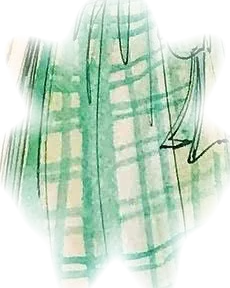
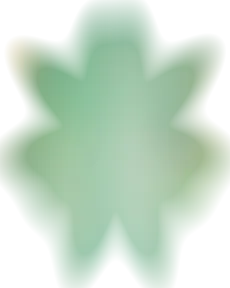
style: blur dress-crop washes and split the painting into standalone figures
The footer wash read as a weird partial plaid skirt; dress-derived washes
are now Gaussian-blurred into pure color. The three women are cut out as
individual feathered figures (gold/rose flank the home hero, plaid on the
novels page, wide screens only); the trio painting stays on the About page.

diff --git a/site/css/style.css b/site/css/style.css
@@ -67,7 +67,7 @@ figure.artwork figcaption { font-size: 0.9rem; color: var(--faded); margin-top: 
 footer {
   margin-top: 3.5rem; padding: 2.2rem 0 2.8rem;
   border-top: none;
-  background: url("../img/washes/sage.webp") no-repeat center top / 16rem auto;
+  background: url("../img/washes/sage.webp?v=2") no-repeat center top / 16rem auto;
   font-size: 0.9rem; color: var(--faded); text-align: center;
 }
 select, button.toggle {
@@ -94,6 +94,18 @@ button.toggle { cursor: pointer; }
 }
 #reader-nav a { margin-left: 0.8rem; }
 
+/* Standalone figures cut from the painting (wide screens only) */
+.hero-fig {
+  position: absolute; top: 0.5rem; height: calc(100% - 1rem); width: auto;
+  display: none;
+}
+.hero-fig.left { left: 0.5rem; }
+.hero-fig.right { right: 0.5rem; }
+@media (min-width: 70rem) {
+  .hero-fig { display: block; }
+  header.hero.has-figs { padding-left: 9rem; padding-right: 9rem; }
+}
+
 /* Script view */
 .cast ol { columns: 2; max-width: 30rem; }
 .stage { font-style: italic; color: var(--faded); margin: 0 0 1rem; }
@@ -105,7 +117,7 @@ button.toggle { cursor: pointer; }
 .line p { margin: 0.1rem 0 0 1.2rem; }
 
 @media print {
-  .crumbs, #reader-nav, footer, .wash-band { display: none !important; }
+  .crumbs, #reader-nav, footer, .wash-band, .hero-fig { display: none !important; }
   body { background: #fff; color: #000; }
   .speaker-tag { background: none !important; color: #000; border: 1px solid #000; }
   .line { break-inside: avoid; }

diff --git a/site/index.html b/site/index.html
@@ -9,7 +9,9 @@
 </head>
 <body>
 <div class="wrap">
-  <header class="hero wash-band">
+  <header class="hero wash-band has-figs">
+    <img class="hero-fig left" src="img/figures/gold.webp" alt="">
+    <img class="hero-fig right" src="img/figures/rose.webp" alt="">
     <h1>AustenAloud</h1>
     <p class="byline">Hilary Havens and Gerard Cohen-Vrignaud</p>
     <p class="art-credit">Artwork by <a href="https://maggiest.weebly.com/">Maggie Stroud</a></p>

diff --git a/site/novels/index.html b/site/novels/index.html
@@ -9,7 +9,8 @@
 </head>
 <body>
 <div class="wrap">
-  <header class="hero wash-band">
+  <header class="hero wash-band has-figs">
+    <img class="hero-fig right" src="../img/figures/plaid.webp" alt="">
     <h1>Read the novels</h1>
     <p>Every chapter, with each speaker named and highlighted — or switch to
        the script view for classroom read-alouds.</p>

diff --git a/builder/make_figures.py b/builder/make_figures.py
@@ -1,0 +1,58 @@
+"""One-off tool: split the Stroud painting into three standalone figures.
+
+Crops each of the three women out of site/img/regency-trio.jpg, feathers the
+crop edges softly into transparency, and writes optimized WebPs to
+site/img/figures/.  Run: python -m builder.make_figures
+"""
+from pathlib import Path
+
+from PIL import Image
+
+# name: (left, top, right, bottom) as fractions of the source image
+FIGURES = {
+    "gold":  (0.00, 0.09, 0.315, 1.00),  # left: gold overdress, feathered bonnet
+    "plaid": (0.30, 0.05, 0.67, 0.915),  # center: green plaid gown, yellow gloves
+    "rose":  (0.67, 0.06, 1.00, 0.96),   # right: pink spencer, white bonnet
+}
+MAX_H = 720
+FEATHER = 0.22  # soft edge width as a fraction of the smaller dimension
+BUDGET = 400_000
+
+
+def soft_rect_mask(w: int, h: int, feather: float = FEATHER) -> Image.Image:
+    """Rectangular alpha mask that fades to transparent at every edge."""
+    mask = Image.new("L", (w, h), 0)
+    px = mask.load()
+    m = feather * min(w, h)
+    for y in range(h):
+        dy = min(y, h - 1 - y) / m
+        for x in range(w):
+            d = min(min(x, w - 1 - x) / m, dy)
+            px[x, y] = max(0, min(255, int(d * 255)))
+    return mask
+
+
+def main() -> None:
+    root = Path(__file__).resolve().parents[1]
+    src = Image.open(root / "site" / "img" / "regency-trio.jpg").convert("RGB")
+    out_dir = root / "site" / "img" / "figures"
+    out_dir.mkdir(parents=True, exist_ok=True)
+    W, H = src.size
+    total = 0
+    for name, (l, t, r, b) in FIGURES.items():
+        crop = src.crop((int(l * W), int(t * H), int(r * W), int(b * H)))
+        if crop.height > MAX_H:
+            crop = crop.resize(
+                (int(crop.width * MAX_H / crop.height), MAX_H), Image.LANCZOS)
+        rgba = crop.convert("RGBA")
+        rgba.putalpha(soft_rect_mask(*crop.size))
+        out = out_dir / f"{name}.webp"
+        rgba.save(out, "WEBP", quality=80)
+        total += out.stat().st_size
+        print(f"{out.name}: {out.stat().st_size:,} bytes")
+    print(f"total {total:,} bytes")
+    assert total < BUDGET, f"figures exceed {BUDGET:,}-byte budget"
+
+
+if __name__ == "__main__":
+    main()

diff --git a/builder/make_washes.py b/builder/make_washes.py
@@ -7,7 +7,7 @@ Run: python -m builder.make_washes
 import math
 from pathlib import Path
 
-from PIL import Image
+from PIL import Image, ImageFilter
 
 # name: (left, top, right, bottom) as fractions of the source image
 REGIONS = {
@@ -17,6 +17,9 @@ REGIONS = {
     "sage":   (0.40, 0.42, 0.56, 0.62),  # green plaid
     "rose":   (0.74, 0.50, 0.87, 0.78),  # pink gown
 }
+# Crops taken from the dresses are blurred into pure color washes so they
+# don't read as fragments of a skirt on the page.
+BLUR = {"butter", "sage", "rose"}
 MAX_W = 640
 BUDGET = 300_000
 
@@ -50,6 +53,9 @@ def main() -> None:
         if crop.width > MAX_W:
             crop = crop.resize(
                 (MAX_W, int(crop.height * MAX_W / crop.width)), Image.LANCZOS)
+        if name in BLUR:
+            crop = crop.filter(
+                ImageFilter.GaussianBlur(radius=max(crop.size) / 14))
         rgba = crop.convert("RGBA")
         rgba.putalpha(organic_mask(*crop.size))
         out = out_dir / f"{name}.webp"